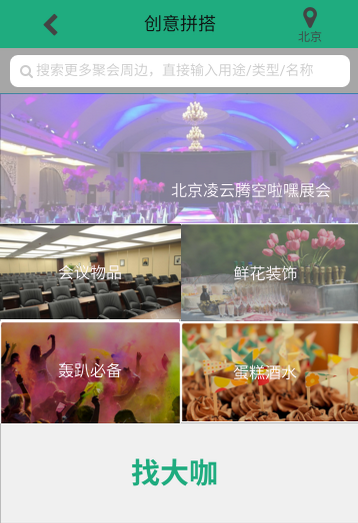
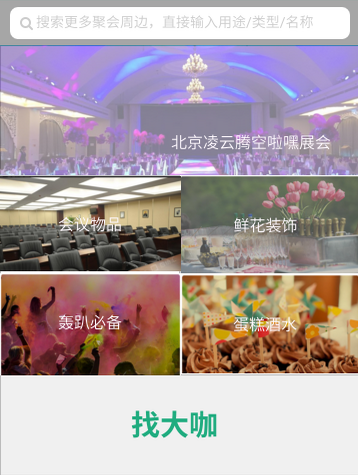
dev_3

diff --git a/app/src/main/assets/list.html b/app/src/main/assets/list.html
@@ -88,7 +88,7 @@
     <img class="list_title right" src="img/list_right.png" alt="">
 </div>
 
-
+<img src="img/list1.png" alt="" class="img1">
 <a href="javascript:;" class="item">
     <img src="img/banner1.jpg" alt="">
     <div class="right">【正经】主持人</div>
